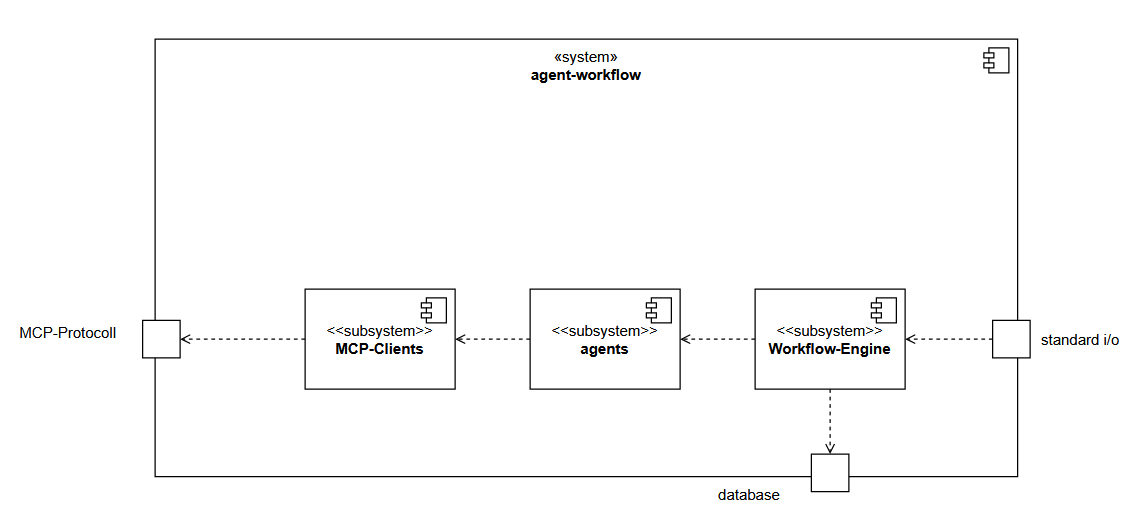
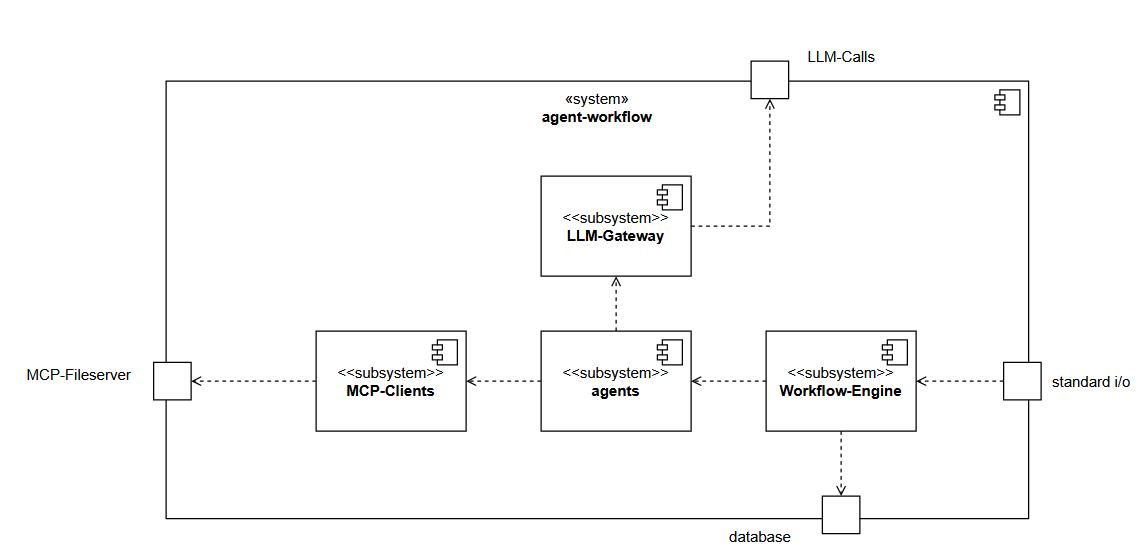
Add LLM-Gateway to Building Block View

diff --git a/architecture/5-Building-Block-view.md b/architecture/5-Building-Block-view.md
@@ -8,7 +8,8 @@ The system is presented as a white box.
 
 The system agent workflow has three components at level 1.
 
-The "Workflow-Engine" provides shell commands that can be
+Workflow-Engine
+- The "Workflow-Engine" provides shell commands that can be
 used to execute a workflow. The port "standard I/O"
 is used to pass the shell commands to the engine.
 The Workflow Engine will read the workflow specification
@@ -18,7 +19,19 @@ inside the workflow specification.
 The Workflow Engine will also save the execution
 state inside a database, as well as the agent outputs.
 
-The agents may create an MCP client if necessary.
-The "MCP-Clients" will make calls to MCP servers using
-the MCP protocol port.
+agents
+- Agents provide specific capabilities such as file writing
+and llm calls. 
+
+MCP-Clients
+- The agents may create an MCP client if necessary.
+The "MCP-Clients" will make calls to the MCP-Fileserver
+in order read or write files. The communicate
+over the MCP-Protocoll.
+
+LLM-Gateway
+- The LLM-Gateway enables the system to make llm calls to
+various llm providers.
+- If a fallback occurs the llm gateway will route the call
+to a different llm.
 
